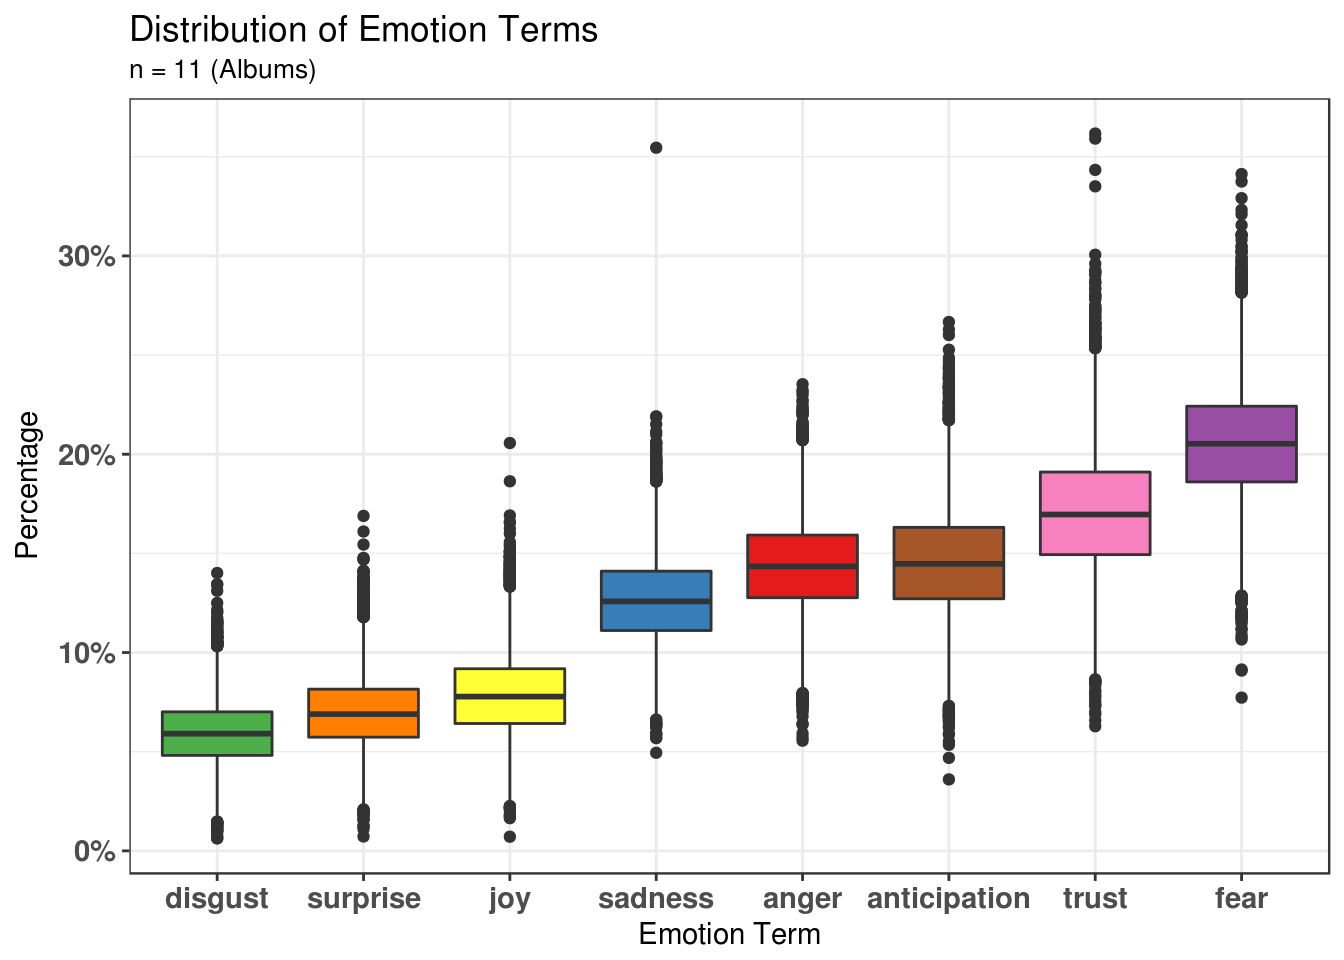
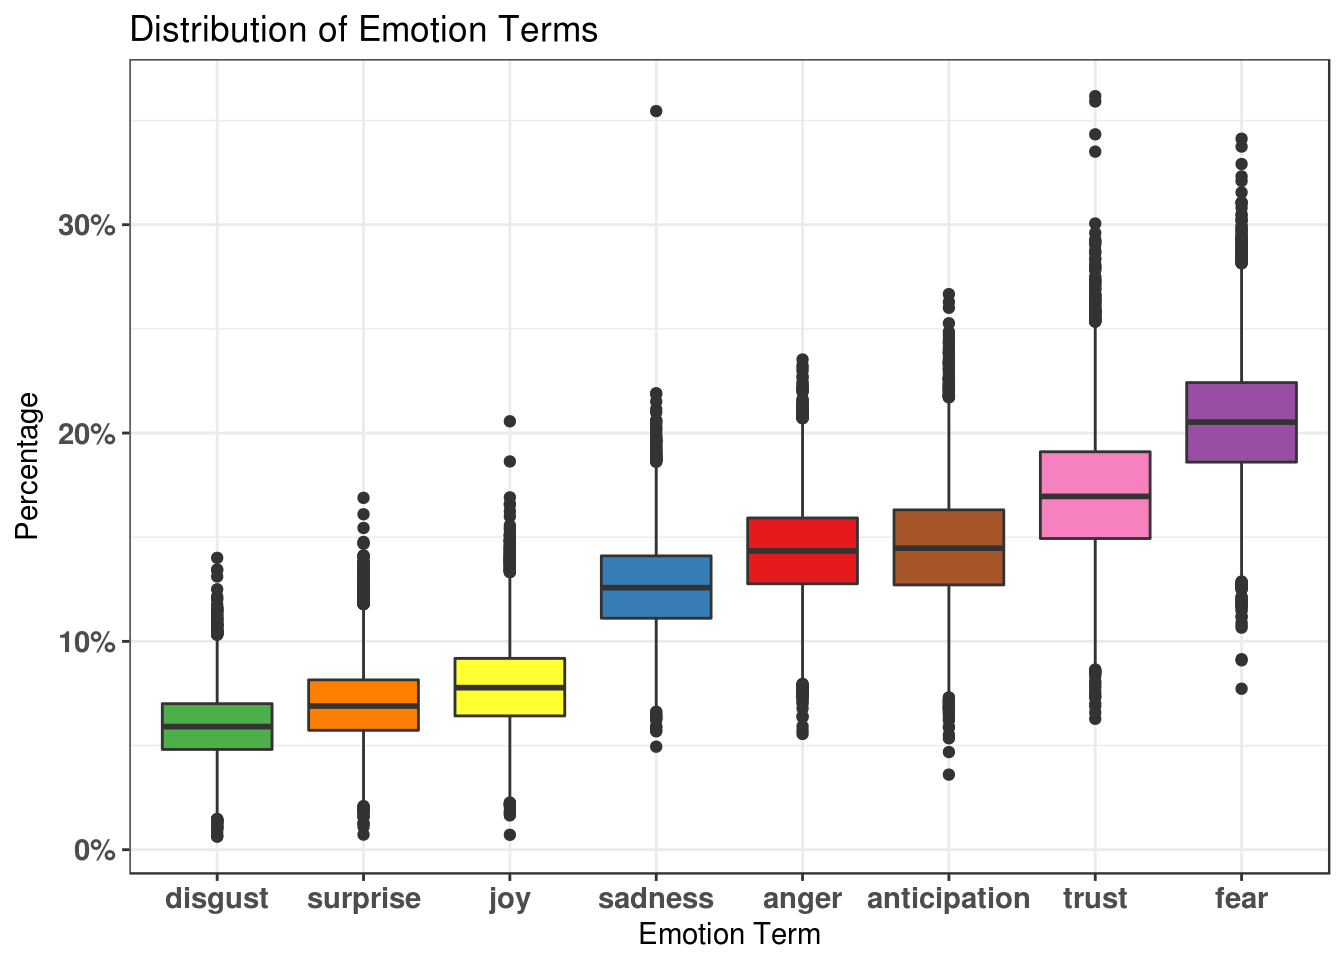
update site

diff --git a/public/post/2017/11/26/sentiment-analysis-of-a-million-news-headlines/index.html b/public/post/2017/11/26/sentiment-analysis-of-a-million-news-headlines/index.html
@@ -75,18 +75,18 @@ news</code></pre>
 
 news</code></pre>
 <pre><code>## # A tibble: 1,093,281 x 4
-##    publish_date headline_text                              year  linenumb…
-##           &lt;int&gt; &lt;chr&gt;                                      &lt;chr&gt;     &lt;int&gt;
-##  1     20030219 aba decides against community broadcastin… 2003          1
-##  2     20030219 act fire witnesses must be aware of defam… 2003          2
-##  3     20030219 a g calls for infrastructure protection s… 2003          3
-##  4     20030219 air nz staff in aust strike for pay rise   2003          4
-##  5     20030219 air nz strike to affect australian travel… 2003          5
-##  6     20030219 ambitious olsson wins triple jump          2003          6
-##  7     20030219 antic delighted with record breaking barca 2003          7
-##  8     20030219 aussie qualifier stosur wastes four memph… 2003          8
-##  9     20030219 aust addresses un security council over i… 2003          9
-## 10     20030219 australia is locked into war timetable opp 2003         10
+##    publish_date headline_text                             year  linenumber
+##           &lt;int&gt; &lt;chr&gt;                                     &lt;chr&gt;      &lt;int&gt;
+##  1     20030219 aba decides against community broadcasti… 2003           1
+##  2     20030219 act fire witnesses must be aware of defa… 2003           2
+##  3     20030219 a g calls for infrastructure protection … 2003           3
+##  4     20030219 air nz staff in aust strike for pay rise  2003           4
+##  5     20030219 air nz strike to affect australian trave… 2003           5
+##  6     20030219 ambitious olsson wins triple jump         2003           6
+##  7     20030219 antic delighted with record breaking bar… 2003           7
+##  8     20030219 aussie qualifier stosur wastes four memp… 2003           8
+##  9     20030219 aust addresses un security council over … 2003           9
+## 10     20030219 australia is locked into war timetable o… 2003          10
 ## # ... with 1,093,271 more rows</code></pre>
 <p>we can use <code>unnest_tokens</code> to separate each line into words. The default tokenizing is for words, but other options include characters, sentences, lines, paragraphs, or separation around regex pattern.</p>
 <pre class="r"><code>tidy_news &lt;- news %&gt;% 
@@ -137,16 +137,16 @@ headlines_2017</code></pre>
 <pre><code>## # A tibble: 792,786 x 3
 ##    item1    item2        n
 ##    &lt;chr&gt;    &lt;chr&gt;    &lt;dbl&gt;
-##  1 trump    donald     476
-##  2 donald   trump      476
-##  3 korea    north      238
-##  4 north    korea      238
-##  5 marriage sex        156
-##  6 sex      marriage   156
-##  7 election wa         147
-##  8 wa       election   147
-##  9 turnbull malcolm    138
-## 10 malcolm  turnbull   138
+##  1 trump    donald    476.
+##  2 donald   trump     476.
+##  3 korea    north     238.
+##  4 north    korea     238.
+##  5 marriage sex       156.
+##  6 sex      marriage  156.
+##  7 election wa        147.
+##  8 wa       election  147.
+##  9 turnbull malcolm   138.
+## 10 malcolm  turnbull  138.
 ## # ... with 792,776 more rows</code></pre>
 <p>Donald trump is the highest occurences pair of words in 2017 followed by North Korea which unsurprising as the feud between them bring fear about nuclear war around the world. Also in 2017, Australia vote in favour of legalising same sex marriage which is big news across the country. Hence explains why sex marriage is just below Donald Trump and North Korea in frequency of co-occurences pair of words in 2017 headlines.</p>
 <p>Let’s plot the network of words occurences:</p>
@@ -215,21 +215,21 @@ news_sentiment</code></pre>
 <pre><code>## # A tibble: 15 x 4
 ##    year  negative positive sentiment
 ##    &lt;chr&gt;    &lt;dbl&gt;    &lt;dbl&gt;     &lt;dbl&gt;
-##  1 2003     26303    12604    -13699
-##  2 2004     31093    14291    -16802
-##  3 2005     31705    13522    -18183
-##  4 2006     28471    12123    -16348
-##  5 2007     32875    13454    -19421
-##  6 2008     34001    14123    -19878
-##  7 2009     32679    13069    -19610
-##  8 2010     31273    12589    -18684
-##  9 2011     30169    11997    -18172
-## 10 2012     30152    13555    -16597
-## 11 2013     31885    14523    -17362
-## 12 2014     28363    14290    -14073
-## 13 2015     30389    14673    -15716
-## 14 2016     24249    11487    -12762
-## 15 2017     14733     7249    - 7484</code></pre>
+##  1 2003    26303.   12604.   -13699.
+##  2 2004    31093.   14291.   -16802.
+##  3 2005    31705.   13522.   -18183.
+##  4 2006    28471.   12123.   -16348.
+##  5 2007    32875.   13454.   -19421.
+##  6 2008    34001.   14123.   -19878.
+##  7 2009    32679.   13069.   -19610.
+##  8 2010    31273.   12589.   -18684.
+##  9 2011    30169.   11997.   -18172.
+## 10 2012    30152.   13555.   -16597.
+## 11 2013    31885.   14523.   -17362.
+## 12 2014    28363.   14290.   -14073.
+## 13 2015    30389.   14673.   -15716.
+## 14 2016    24249.   11487.   -12762.
+## 15 2017    14733.    7249.    -7484.</code></pre>
 </div>
 <div id="most-common-positive-and-negative-words" class="section level2">
 <h2>Most common positive and negative words</h2>
@@ -255,10 +255,10 @@ top_sentiments_bing</code></pre>
 ##    &lt;chr&gt;   &lt;chr&gt;     &lt;int&gt;  &lt;int&gt;
 ##  1 crash   negative  11103 -11103
 ##  2 death   negative  11052 -11052
-##  3 murder  negative   9105 - 9105
+##  3 murder  negative   9105  -9105
 ##  4 win     positive   8246   8246
-##  5 killed  negative   8058 - 8058
-##  6 attack  negative   7082 - 7082
+##  5 killed  negative   8058  -8058
+##  6 attack  negative   7082  -7082
 ##  7 boost   positive   6979   6979
 ##  8 gold    positive   6161   6161
 ##  9 top     positive   5647   5647
@@ -339,7 +339,7 @@ sentiment_bing</code></pre>
         axis.text.y = element_text(size = 11, face = &quot;bold&quot;))</code></pre>
 <p><img src="/post/2017-11-26-sentiment-analysis-on-a-million-news-headlines_files/figure-html/unnamed-chunk-15-1.png" width="672" /></p>
 <p>The proportion of negative sentiment words has been consistently much higher than proportion of positive sentiment words since 2003.</p>
-<p>Let’s use NRC lexicon for sentimenLet’s use NRC lexicon for sentiment analysis. NRC sentiments got list of sentiments way beyond positive and negative, it categorizes words into eight different emotion terms, <code>Anger</code>, <code>Anticipation</code>, <code>Disgust</code>, <code>Fear</code>, <code>Joy</code>, <code>Sadness</code>, <code>Surprise</code>, and <code>Trust</code>.</p>
+<p>Let’s use NRC lexicon for sentiment analysis. NRC sentiments got list of sentiments way beyond positive and negative, it categorizes words into eight different emotion terms, <code>Anger</code>, <code>Anticipation</code>, <code>Disgust</code>, <code>Fear</code>, <code>Joy</code>, <code>Sadness</code>, <code>Surprise</code>, and <code>Trust</code>.</p>
 <pre class="r"><code>library(RColorBrewer)
 cols &lt;- colorRampPalette(brewer.pal(n = 8, name = &quot;Set1&quot;))(8)
 
@@ -373,8 +373,7 @@ news_nrc %&gt;%
   scale_y_continuous(breaks = pretty_breaks(5), 
                      labels = percent_format()) +
   scale_fill_manual(values = cols) +
-  ggtitle(&quot;Distribution of Emotion Terms&quot;, 
-          subtitle = &quot;n = 11 (Albums)&quot;) +
+  ggtitle(&quot;Distribution of Emotion Terms&quot;) +
   labs(x = &quot;Emotion Term&quot;, y = &quot;Percentage&quot;) +
   theme_bw() +
   theme(legend.position = &quot;none&quot;,
@@ -406,7 +405,7 @@ news_nrc2 %&gt;%
                      labels = percent_format()) +
   xlab(&quot;Year&quot;) + ylab(&quot;Proportion of Emotion Words&quot;) +
   ggtitle(&quot;News Headlines Sentiments Across Years&quot;, 
-          subtitle = &quot;From 2000-2016&quot;) +
+          subtitle = &quot;From 2003-2017&quot;) +
   theme_bw() +
   theme(axis.text.x = element_text(angle = 45, 
                                    hjust = 1, size = 11, 
@@ -575,25 +574,24 @@ all_lexicons</code></pre>
 <pre><code>## # A tibble: 330 x 5
 ##    index sentiment lexicon negative positive
 ##    &lt;dbl&gt;     &lt;dbl&gt; &lt;chr&gt;      &lt;dbl&gt;    &lt;dbl&gt;
-##  1  0        -5364 AFINN         NA       NA
-##  2  1.00     -3761 AFINN         NA       NA
-##  3  2.00     -3952 AFINN         NA       NA
-##  4  3.00     -4294 AFINN         NA       NA
-##  5  4.00     -4481 AFINN         NA       NA
-##  6  5.00     -4077 AFINN         NA       NA
-##  7  6.00     -4979 AFINN         NA       NA
-##  8  7.00     -4659 AFINN         NA       NA
-##  9  8.00     -5018 AFINN         NA       NA
-## 10  9.00     -5087 AFINN         NA       NA
+##  1    0.    -5364. AFINN         NA       NA
+##  2    1.    -3761. AFINN         NA       NA
+##  3    2.    -3952. AFINN         NA       NA
+##  4    3.    -4294. AFINN         NA       NA
+##  5    4.    -4481. AFINN         NA       NA
+##  6    5.    -4077. AFINN         NA       NA
+##  7    6.    -4979. AFINN         NA       NA
+##  8    7.    -4659. AFINN         NA       NA
+##  9    8.    -5018. AFINN         NA       NA
+## 10    9.    -5087. AFINN         NA       NA
 ## # ... with 320 more rows</code></pre>
 <pre class="r"><code>all_lexicons %&gt;% 
   ggplot(aes(index, sentiment, fill = lexicon)) +
   geom_col() +
   facet_wrap(~lexicon, ncol = 1, scales = &quot;free_y&quot;) +
   scale_fill_manual(values = lexicon_cols) +
-  ggtitle(&quot;Comparison of Sentiments&quot;, 
-          subtitle = &quot; Along Song-Order&quot;) +
-  labs(x = &quot;Index of All Headlines From 2003-2017&quot;,
+  ggtitle(&quot;Comparison of Sentiments&quot;) +
+  labs(x = &quot;Index of All Headlines From 2003-2017&quot; ,
        y = &quot;Sentiment Score&quot;) +
   theme_bw() +
   theme(axis.text.x = element_blank())</code></pre>
@@ -605,7 +603,7 @@ all_lexicons</code></pre>
 <div id="summary" class="section level2">
 <h2>Summary</h2>
 <p>We can see from the analysis that negative sentiment has been dominating media headlines in Australia since 2013 with fear being the dominating theme emotion. Most of these negative sentiment came from reporting of crime, automobile crash etc.These types of headlines are the most appealing to readers, hence why their term frequencies are high. However, the 3 lexicons we used in this analysis failed to categorized so many words in all the headlines. To be exact, there are <strong>4,652,959</strong>, <strong>3,982,132</strong>, and <strong>4,532,575</strong> words that are not categorized by <strong>Bing</strong>, <strong>NRC</strong>, and <strong>AFINN</strong> lexicon consecutively.</p>
-<p>It is important to note that lexicons in the <code>tidytext</code> package are not the be all and end all for text/sentiment analysis. One can even create their own lexicons through crowd-sourcing (such as Amazon Mechanical-Turk, which is how some of the lexicons shown here were created), from utilizing word lists accrued by your own company throughout the years dealing with customer/employee feedback, etc. It would be interesting to compare this datasets with headlines from another country. For example, we can compare the most focused term used by headlines in different country using the tf-idf statistic. But before that, i have to build more foundational skills in text mining by going through this amazing book by Julia Silge, <a href="http://tidytextmining.com">Text Mining With R</a>.</p>
+<p>It is important to note that lexicons in the <code>tidytext</code> package are not the be all and end all for text/sentiment analysis. One can even create their own lexicons through crowd-sourcing (such as Amazon Mechanical-Turk, which is how some of the lexicons shown here were created), from utilizing word lists accrued by your own company throughout the years dealing with customer/employee feedback, etc. It would be interesting to compare this datasets with headlines from another country. For example, we can compare the most focused term used by headlines in different country using the tf-idf statistic.</p>
 </div>
 </div>
 

diff --git a/content/post/2017-11-26-sentiment-analysis-on-a-million-news-headlines.html b/content/post/2017-11-26-sentiment-analysis-on-a-million-news-headlines.html
@@ -52,18 +52,18 @@ news</code></pre>
 
 news</code></pre>
 <pre><code>## # A tibble: 1,093,281 x 4
-##    publish_date headline_text                              year  linenumb…
-##           &lt;int&gt; &lt;chr&gt;                                      &lt;chr&gt;     &lt;int&gt;
-##  1     20030219 aba decides against community broadcastin… 2003          1
-##  2     20030219 act fire witnesses must be aware of defam… 2003          2
-##  3     20030219 a g calls for infrastructure protection s… 2003          3
-##  4     20030219 air nz staff in aust strike for pay rise   2003          4
-##  5     20030219 air nz strike to affect australian travel… 2003          5
-##  6     20030219 ambitious olsson wins triple jump          2003          6
-##  7     20030219 antic delighted with record breaking barca 2003          7
-##  8     20030219 aussie qualifier stosur wastes four memph… 2003          8
-##  9     20030219 aust addresses un security council over i… 2003          9
-## 10     20030219 australia is locked into war timetable opp 2003         10
+##    publish_date headline_text                             year  linenumber
+##           &lt;int&gt; &lt;chr&gt;                                     &lt;chr&gt;      &lt;int&gt;
+##  1     20030219 aba decides against community broadcasti… 2003           1
+##  2     20030219 act fire witnesses must be aware of defa… 2003           2
+##  3     20030219 a g calls for infrastructure protection … 2003           3
+##  4     20030219 air nz staff in aust strike for pay rise  2003           4
+##  5     20030219 air nz strike to affect australian trave… 2003           5
+##  6     20030219 ambitious olsson wins triple jump         2003           6
+##  7     20030219 antic delighted with record breaking bar… 2003           7
+##  8     20030219 aussie qualifier stosur wastes four memp… 2003           8
+##  9     20030219 aust addresses un security council over … 2003           9
+## 10     20030219 australia is locked into war timetable o… 2003          10
 ## # ... with 1,093,271 more rows</code></pre>
 <p>we can use <code>unnest_tokens</code> to separate each line into words. The default tokenizing is for words, but other options include characters, sentences, lines, paragraphs, or separation around regex pattern.</p>
 <pre class="r"><code>tidy_news &lt;- news %&gt;% 
@@ -114,16 +114,16 @@ headlines_2017</code></pre>
 <pre><code>## # A tibble: 792,786 x 3
 ##    item1    item2        n
 ##    &lt;chr&gt;    &lt;chr&gt;    &lt;dbl&gt;
-##  1 trump    donald     476
-##  2 donald   trump      476
-##  3 korea    north      238
-##  4 north    korea      238
-##  5 marriage sex        156
-##  6 sex      marriage   156
-##  7 election wa         147
-##  8 wa       election   147
-##  9 turnbull malcolm    138
-## 10 malcolm  turnbull   138
+##  1 trump    donald    476.
+##  2 donald   trump     476.
+##  3 korea    north     238.
+##  4 north    korea     238.
+##  5 marriage sex       156.
+##  6 sex      marriage  156.
+##  7 election wa        147.
+##  8 wa       election  147.
+##  9 turnbull malcolm   138.
+## 10 malcolm  turnbull  138.
 ## # ... with 792,776 more rows</code></pre>
 <p>Donald trump is the highest occurences pair of words in 2017 followed by North Korea which unsurprising as the feud between them bring fear about nuclear war around the world. Also in 2017, Australia vote in favour of legalising same sex marriage which is big news across the country. Hence explains why sex marriage is just below Donald Trump and North Korea in frequency of co-occurences pair of words in 2017 headlines.</p>
 <p>Let’s plot the network of words occurences:</p>
@@ -192,21 +192,21 @@ news_sentiment</code></pre>
 <pre><code>## # A tibble: 15 x 4
 ##    year  negative positive sentiment
 ##    &lt;chr&gt;    &lt;dbl&gt;    &lt;dbl&gt;     &lt;dbl&gt;
-##  1 2003     26303    12604    -13699
-##  2 2004     31093    14291    -16802
-##  3 2005     31705    13522    -18183
-##  4 2006     28471    12123    -16348
-##  5 2007     32875    13454    -19421
-##  6 2008     34001    14123    -19878
-##  7 2009     32679    13069    -19610
-##  8 2010     31273    12589    -18684
-##  9 2011     30169    11997    -18172
-## 10 2012     30152    13555    -16597
-## 11 2013     31885    14523    -17362
-## 12 2014     28363    14290    -14073
-## 13 2015     30389    14673    -15716
-## 14 2016     24249    11487    -12762
-## 15 2017     14733     7249    - 7484</code></pre>
+##  1 2003    26303.   12604.   -13699.
+##  2 2004    31093.   14291.   -16802.
+##  3 2005    31705.   13522.   -18183.
+##  4 2006    28471.   12123.   -16348.
+##  5 2007    32875.   13454.   -19421.
+##  6 2008    34001.   14123.   -19878.
+##  7 2009    32679.   13069.   -19610.
+##  8 2010    31273.   12589.   -18684.
+##  9 2011    30169.   11997.   -18172.
+## 10 2012    30152.   13555.   -16597.
+## 11 2013    31885.   14523.   -17362.
+## 12 2014    28363.   14290.   -14073.
+## 13 2015    30389.   14673.   -15716.
+## 14 2016    24249.   11487.   -12762.
+## 15 2017    14733.    7249.    -7484.</code></pre>
 </div>
 <div id="most-common-positive-and-negative-words" class="section level2">
 <h2>Most common positive and negative words</h2>
@@ -232,10 +232,10 @@ top_sentiments_bing</code></pre>
 ##    &lt;chr&gt;   &lt;chr&gt;     &lt;int&gt;  &lt;int&gt;
 ##  1 crash   negative  11103 -11103
 ##  2 death   negative  11052 -11052
-##  3 murder  negative   9105 - 9105
+##  3 murder  negative   9105  -9105
 ##  4 win     positive   8246   8246
-##  5 killed  negative   8058 - 8058
-##  6 attack  negative   7082 - 7082
+##  5 killed  negative   8058  -8058
+##  6 attack  negative   7082  -7082
 ##  7 boost   positive   6979   6979
 ##  8 gold    positive   6161   6161
 ##  9 top     positive   5647   5647
@@ -316,7 +316,7 @@ sentiment_bing</code></pre>
         axis.text.y = element_text(size = 11, face = &quot;bold&quot;))</code></pre>
 <p><img src="/post/2017-11-26-sentiment-analysis-on-a-million-news-headlines_files/figure-html/unnamed-chunk-15-1.png" width="672" /></p>
 <p>The proportion of negative sentiment words has been consistently much higher than proportion of positive sentiment words since 2003.</p>
-<p>Let’s use NRC lexicon for sentimenLet’s use NRC lexicon for sentiment analysis. NRC sentiments got list of sentiments way beyond positive and negative, it categorizes words into eight different emotion terms, <code>Anger</code>, <code>Anticipation</code>, <code>Disgust</code>, <code>Fear</code>, <code>Joy</code>, <code>Sadness</code>, <code>Surprise</code>, and <code>Trust</code>.</p>
+<p>Let’s use NRC lexicon for sentiment analysis. NRC sentiments got list of sentiments way beyond positive and negative, it categorizes words into eight different emotion terms, <code>Anger</code>, <code>Anticipation</code>, <code>Disgust</code>, <code>Fear</code>, <code>Joy</code>, <code>Sadness</code>, <code>Surprise</code>, and <code>Trust</code>.</p>
 <pre class="r"><code>library(RColorBrewer)
 cols &lt;- colorRampPalette(brewer.pal(n = 8, name = &quot;Set1&quot;))(8)
 
@@ -350,8 +350,7 @@ news_nrc %&gt;%
   scale_y_continuous(breaks = pretty_breaks(5), 
                      labels = percent_format()) +
   scale_fill_manual(values = cols) +
-  ggtitle(&quot;Distribution of Emotion Terms&quot;, 
-          subtitle = &quot;n = 11 (Albums)&quot;) +
+  ggtitle(&quot;Distribution of Emotion Terms&quot;) +
   labs(x = &quot;Emotion Term&quot;, y = &quot;Percentage&quot;) +
   theme_bw() +
   theme(legend.position = &quot;none&quot;,
@@ -383,7 +382,7 @@ news_nrc2 %&gt;%
                      labels = percent_format()) +
   xlab(&quot;Year&quot;) + ylab(&quot;Proportion of Emotion Words&quot;) +
   ggtitle(&quot;News Headlines Sentiments Across Years&quot;, 
-          subtitle = &quot;From 2000-2016&quot;) +
+          subtitle = &quot;From 2003-2017&quot;) +
   theme_bw() +
   theme(axis.text.x = element_text(angle = 45, 
                                    hjust = 1, size = 11, 
@@ -552,25 +551,24 @@ all_lexicons</code></pre>
 <pre><code>## # A tibble: 330 x 5
 ##    index sentiment lexicon negative positive
 ##    &lt;dbl&gt;     &lt;dbl&gt; &lt;chr&gt;      &lt;dbl&gt;    &lt;dbl&gt;
-##  1  0        -5364 AFINN         NA       NA
-##  2  1.00     -3761 AFINN         NA       NA
-##  3  2.00     -3952 AFINN         NA       NA
-##  4  3.00     -4294 AFINN         NA       NA
-##  5  4.00     -4481 AFINN         NA       NA
-##  6  5.00     -4077 AFINN         NA       NA
-##  7  6.00     -4979 AFINN         NA       NA
-##  8  7.00     -4659 AFINN         NA       NA
-##  9  8.00     -5018 AFINN         NA       NA
-## 10  9.00     -5087 AFINN         NA       NA
+##  1    0.    -5364. AFINN         NA       NA
+##  2    1.    -3761. AFINN         NA       NA
+##  3    2.    -3952. AFINN         NA       NA
+##  4    3.    -4294. AFINN         NA       NA
+##  5    4.    -4481. AFINN         NA       NA
+##  6    5.    -4077. AFINN         NA       NA
+##  7    6.    -4979. AFINN         NA       NA
+##  8    7.    -4659. AFINN         NA       NA
+##  9    8.    -5018. AFINN         NA       NA
+## 10    9.    -5087. AFINN         NA       NA
 ## # ... with 320 more rows</code></pre>
 <pre class="r"><code>all_lexicons %&gt;% 
   ggplot(aes(index, sentiment, fill = lexicon)) +
   geom_col() +
   facet_wrap(~lexicon, ncol = 1, scales = &quot;free_y&quot;) +
   scale_fill_manual(values = lexicon_cols) +
-  ggtitle(&quot;Comparison of Sentiments&quot;, 
-          subtitle = &quot; Along Song-Order&quot;) +
-  labs(x = &quot;Index of All Headlines From 2003-2017&quot;,
+  ggtitle(&quot;Comparison of Sentiments&quot;) +
+  labs(x = &quot;Index of All Headlines From 2003-2017&quot; ,
        y = &quot;Sentiment Score&quot;) +
   theme_bw() +
   theme(axis.text.x = element_blank())</code></pre>
@@ -582,6 +580,6 @@ all_lexicons</code></pre>
 <div id="summary" class="section level2">
 <h2>Summary</h2>
 <p>We can see from the analysis that negative sentiment has been dominating media headlines in Australia since 2013 with fear being the dominating theme emotion. Most of these negative sentiment came from reporting of crime, automobile crash etc.These types of headlines are the most appealing to readers, hence why their term frequencies are high. However, the 3 lexicons we used in this analysis failed to categorized so many words in all the headlines. To be exact, there are <strong>4,652,959</strong>, <strong>3,982,132</strong>, and <strong>4,532,575</strong> words that are not categorized by <strong>Bing</strong>, <strong>NRC</strong>, and <strong>AFINN</strong> lexicon consecutively.</p>
-<p>It is important to note that lexicons in the <code>tidytext</code> package are not the be all and end all for text/sentiment analysis. One can even create their own lexicons through crowd-sourcing (such as Amazon Mechanical-Turk, which is how some of the lexicons shown here were created), from utilizing word lists accrued by your own company throughout the years dealing with customer/employee feedback, etc. It would be interesting to compare this datasets with headlines from another country. For example, we can compare the most focused term used by headlines in different country using the tf-idf statistic. But before that, i have to build more foundational skills in text mining by going through this amazing book by Julia Silge, <a href="http://tidytextmining.com">Text Mining With R</a>.</p>
+<p>It is important to note that lexicons in the <code>tidytext</code> package are not the be all and end all for text/sentiment analysis. One can even create their own lexicons through crowd-sourcing (such as Amazon Mechanical-Turk, which is how some of the lexicons shown here were created), from utilizing word lists accrued by your own company throughout the years dealing with customer/employee feedback, etc. It would be interesting to compare this datasets with headlines from another country. For example, we can compare the most focused term used by headlines in different country using the tf-idf statistic.</p>
 </div>
 </div>
